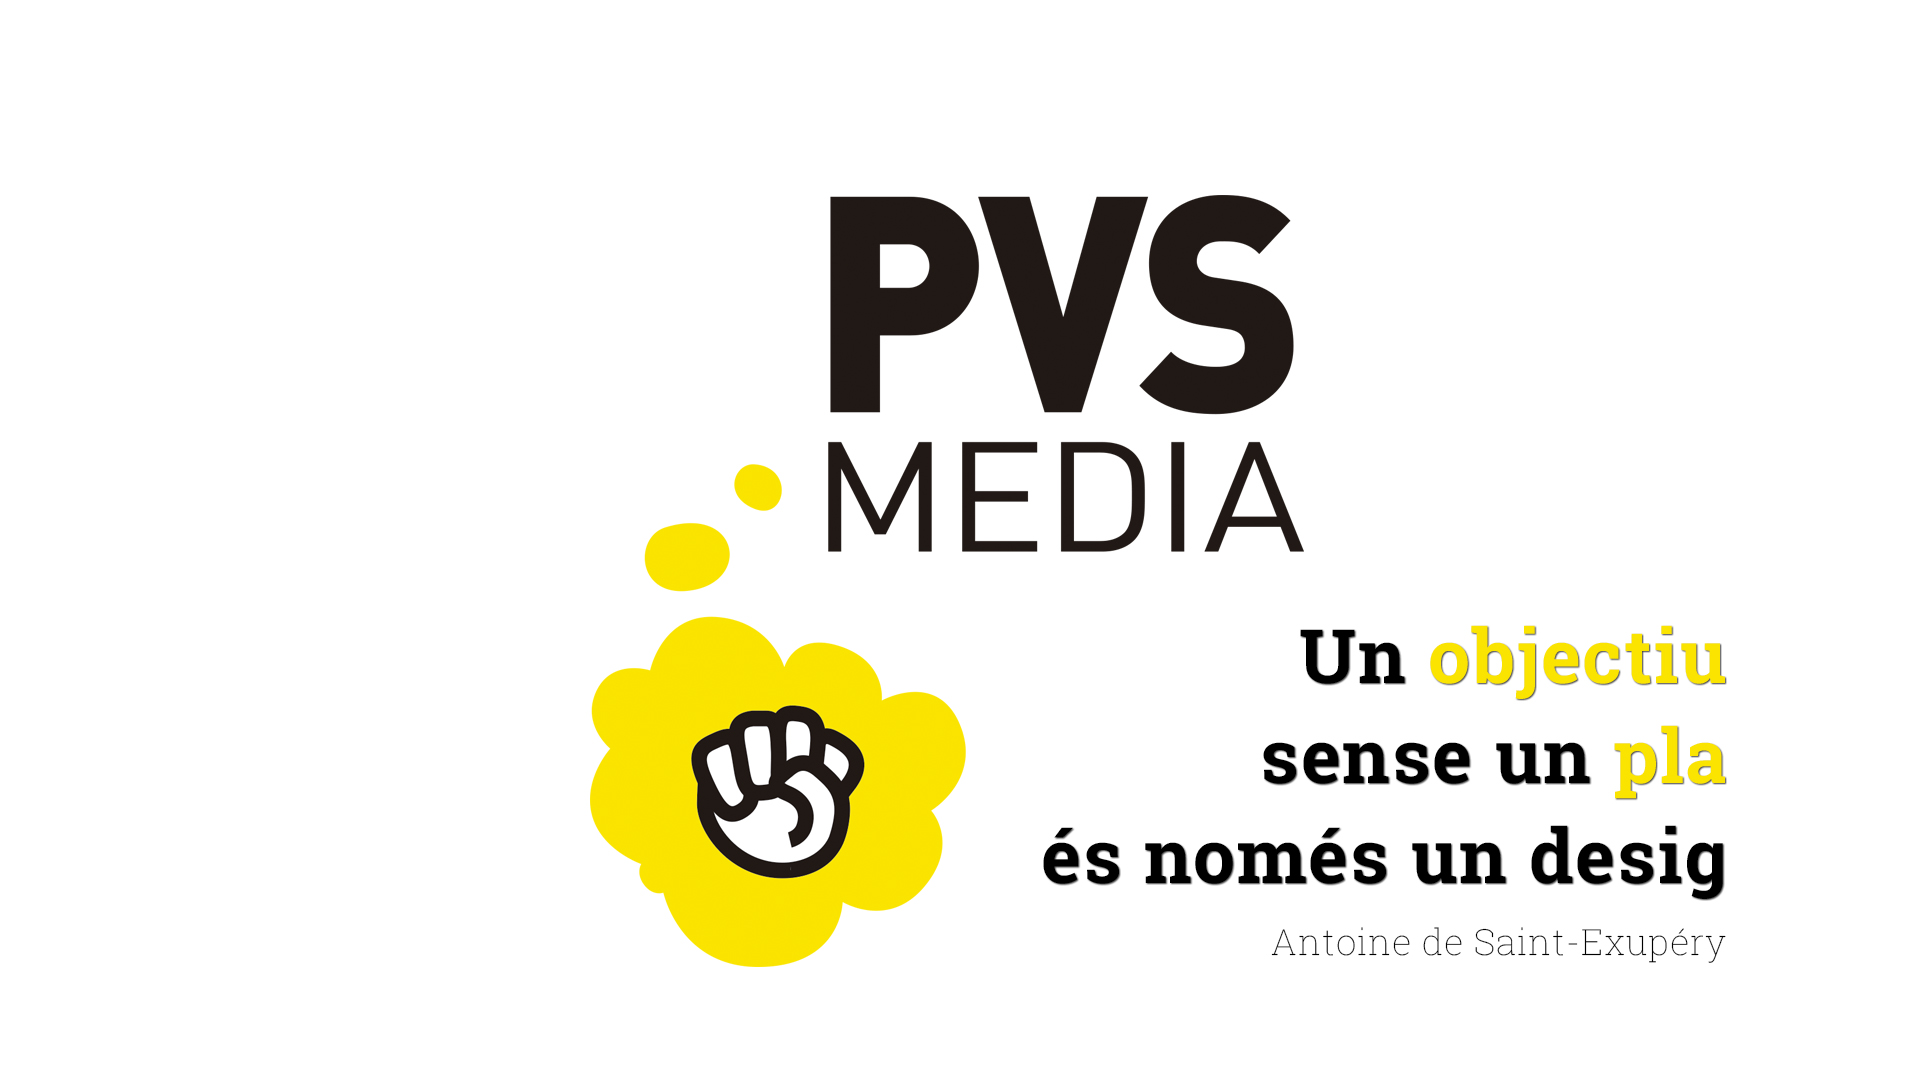
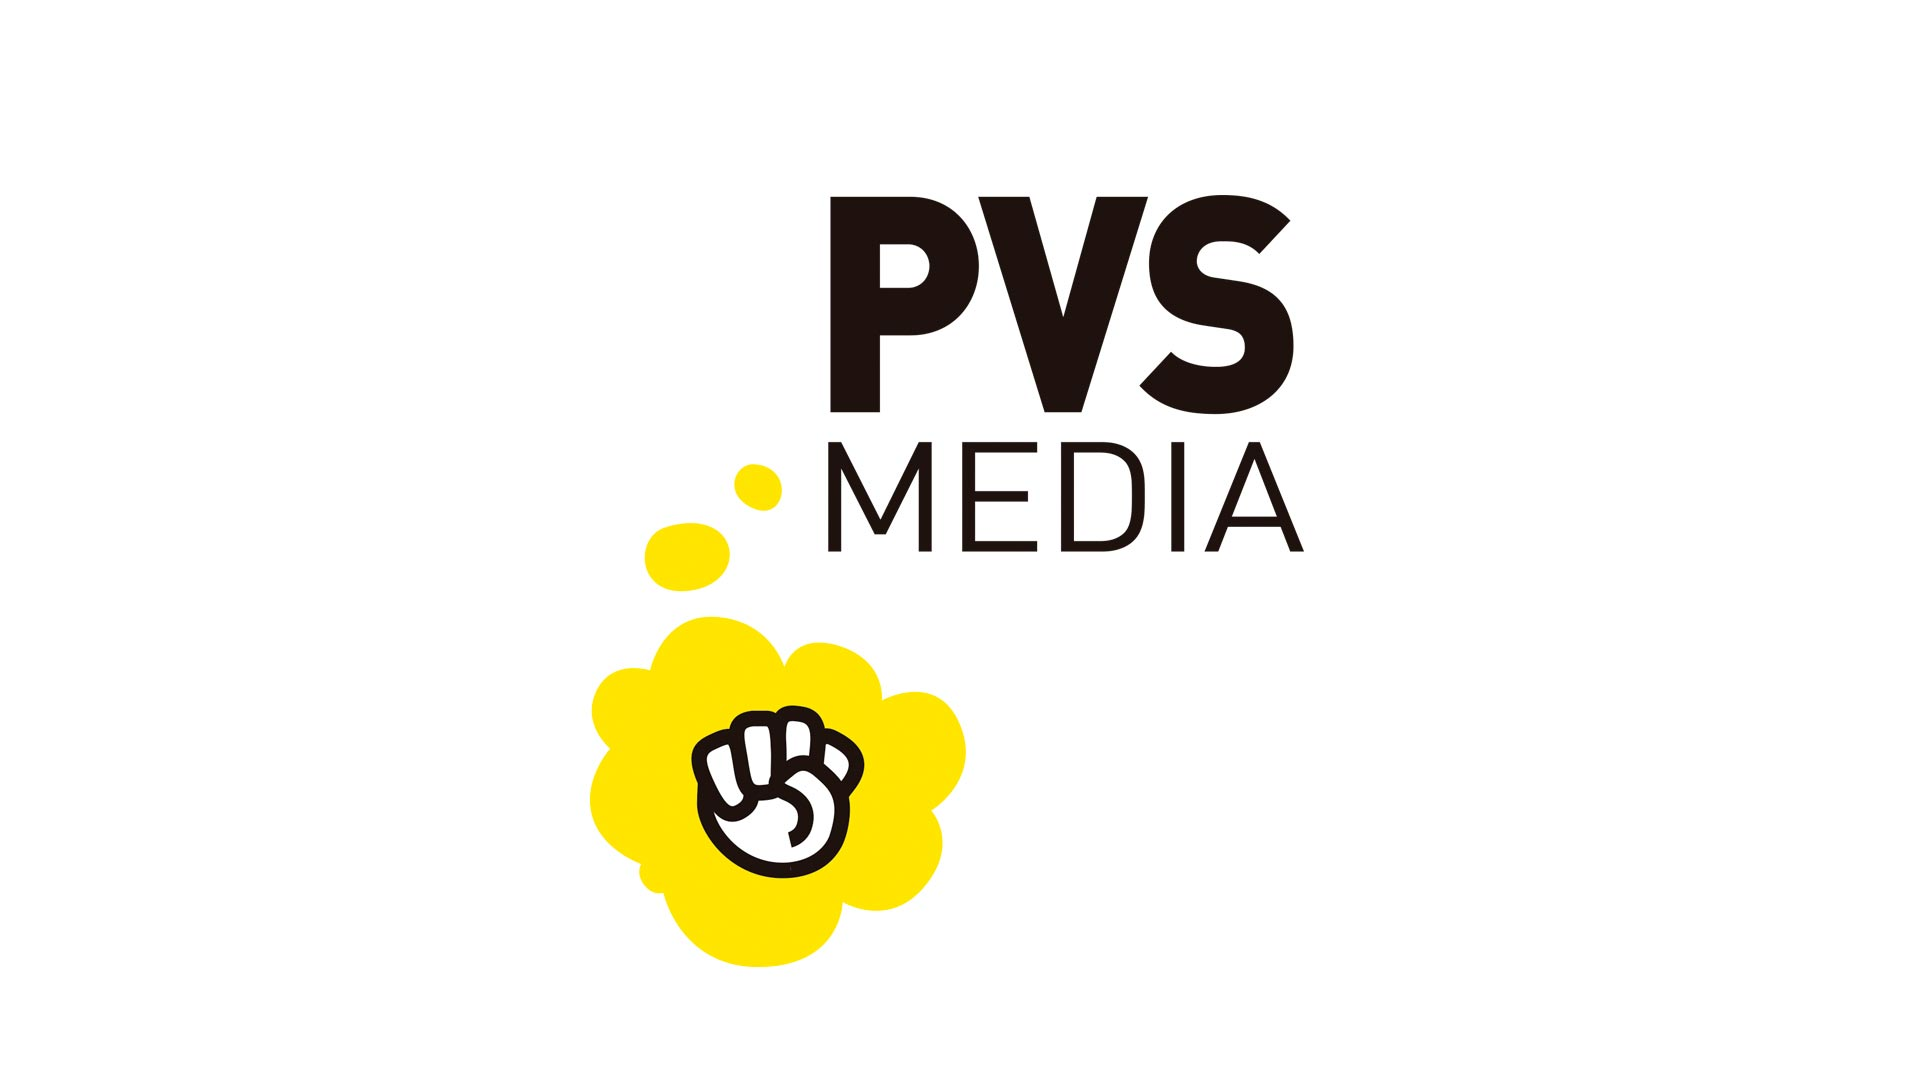
Modificar entrada idiomes + slider text

Changed region(s): [[0.5312, 0.7639, 0.9062, 0.8861], [0.6562, 0.6722, 0.9062, 0.7333], [0.6562, 0.5806, 0.9062, 0.6417]]

diff --git a/src/index.js b/src/index.js
@@ -1,32 +1,5 @@
-var english = {
-  MENU: {
-    HOLA: 'Hello',
-    PORTFOLI: 'Portfolio',
-    CONTACTA: 'Contact'
-  },
-  DEVELOPED_FOOTER: 'Developed by'
-};
-
-var spanish = {
-  MENU: {
-    HOLA: 'Hola',
-    PORTFOLI: 'Portfolio',
-    CONTACTA: 'Contacta'
-  },
-  DEVELOPED_FOOTER: 'Dessarollado por'
-};
-
-var catalan = {
-  MENU: {
-    HOLA: 'Hola',
-    PORTFOLI: 'Portfoli',
-    CONTACTA: 'Contacte'
-  },
-  DEVELOPED_FOOTER: 'Desenvolupat per'
-};
-
 angular
-  .module('app', ['ui.router', 'ngAnimate', 'ngMaterial', 'pascalprecht.translate', 'ngSanitize', 'angular-carousel'])
+  .module('app', ['ui.router', 'ngAnimate', 'ngMaterial', 'pascalprecht.translate', 'ngCookies', 'ngSanitize', 'angular-carousel'])
   .config(function ($mdThemingProvider, $translateProvider) {
     $mdThemingProvider.theme('default')
       .primaryPalette('grey', {
@@ -42,10 +15,12 @@ angular
       })
       .determinePreferredLanguage()
       .fallbackLanguage('en')
-      .translations('en', english)
-      .translations('es', spanish)
-      .translations('ca', catalan)
-      .useSanitizeValueStrategy('escape');
+      .useLocalStorage()
+      .useStaticFilesLoader({
+        prefix: 'i18n/locale-',
+        suffix: '.json'
+      });
+      // .useSanitizeValueStrategy(null);
   })
   .controller('menuCtrl', function ($scope, $translate, $timeout) {
     $scope.langs = [

diff --git a/src/app/main.html b/src/app/main.html
@@ -2,14 +2,21 @@
   <main class="main">
     <div class="title" ng-controller="MainCtrl">
       <ul rn-carousel rn-carousel-auto-slide="5" rn-carousel-controls-allow-loop class="image">
-        <li>
+        <li id="slide1" layout="column" layout-align="center center">
           <img src="img/slide_1.jpg" alt="PVS media" />
         </li>
-        <li>
-          <h1>Un <span>objectiu</span><br />sense un <span>pla</span><br />és només un desig</h1>
+        <li id="slide2">
+          <div class="text">
+            <h1 translate ng-bind-html>{{'SLIDER.SLIDE2' | translate}}</h1>
+            <p>Antoine de Sant-Exupéry</p>
+          </div>
           <img src="img/slide_2ca.jpg" alt="PVS media" />
         </li>
-        <li>
+        <li id="slide3">
+          <div class="text">
+            <h1 translate ng-bind-html>{{'SLIDER.SLIDE3' | translate}}</h1>
+            <p>Seth Godin</p>
+          </div>
           <img src="img/slide_3ca.jpg" alt="PVS media" />
         </li>
       </ul>

diff --git a/src/index.css b/src/index.css
@@ -1,7 +1,7 @@
 html, body, #root {
   margin: 0;
   height: 100%;
-  font-family: 'Open Sans', sans-serif;
+  font-family: 'Roboto', serif;
   overflow: auto !important;
 }
 
@@ -75,21 +75,40 @@ md-select-menu .md-text{
   height: 100%;
   width: 100%;
   background-color: white;
-  
 }
 .title ul img{
   max-height: 100%;
   max-width: 100%;
 }
-.magnificent-slider{
-  z-index: 0 !important;
+.title span{
+  color: #fae300;
 }
-/*.magnificent-slide{
-  height: auto;
-  width: auto;
-  max-width: 100vw;
-  max-height: 100vh;
-}*/
+.title h1{
+  font-family: 'Roboto Slab', serif;
+  text-shadow: 2px 2px #8a8a8a;
+  font-weight: 700;
+  font-size: 4rem;
+}
+.title p{
+  font-weight: lighter;;
+  font-size: 1.5rem;
+}
+.title .text{
+  position: absolute;
+  text-align: right;
+}
+#slide1{
+  
+}
+#slide2 .text{
+  bottom: 10%;
+  right: 5%;
+}
+#slide3 .text{
+  top: 10%;
+  right: 5%;
+}
+
 md-toolbar{
   min-height: 50px;
 }

diff --git a/src/index.html b/src/index.html
@@ -25,6 +25,9 @@
     <meta property="og:locale:alternate" content="es_ES" />
     <meta property="og:locale:alternate" content="en_EN" />
 
+    <link rel="stylesheet" href="https://fonts.googleapis.com/css?family=Roboto:300,400,500,700,400italic">
+    <link href="https://fonts.googleapis.com/css?family=Roboto+Slab:300,400,500,700,400italic" rel="stylesheet">
+
     <!-- build:css({.tmp,src}) styles/vendor.css -->
     <!-- bower:css -->
     <!-- run `gulp inject` to automatically populate bower styles dependencies -->

diff --git a/src/app/main.js b/src/app/main.js
@@ -1,5 +1,5 @@
 angular
   .module('app')
-  .controller('MainCtrl', function ($scope, $translate) {
-    
+  .controller('MainCtrl', function () {
+
   });
